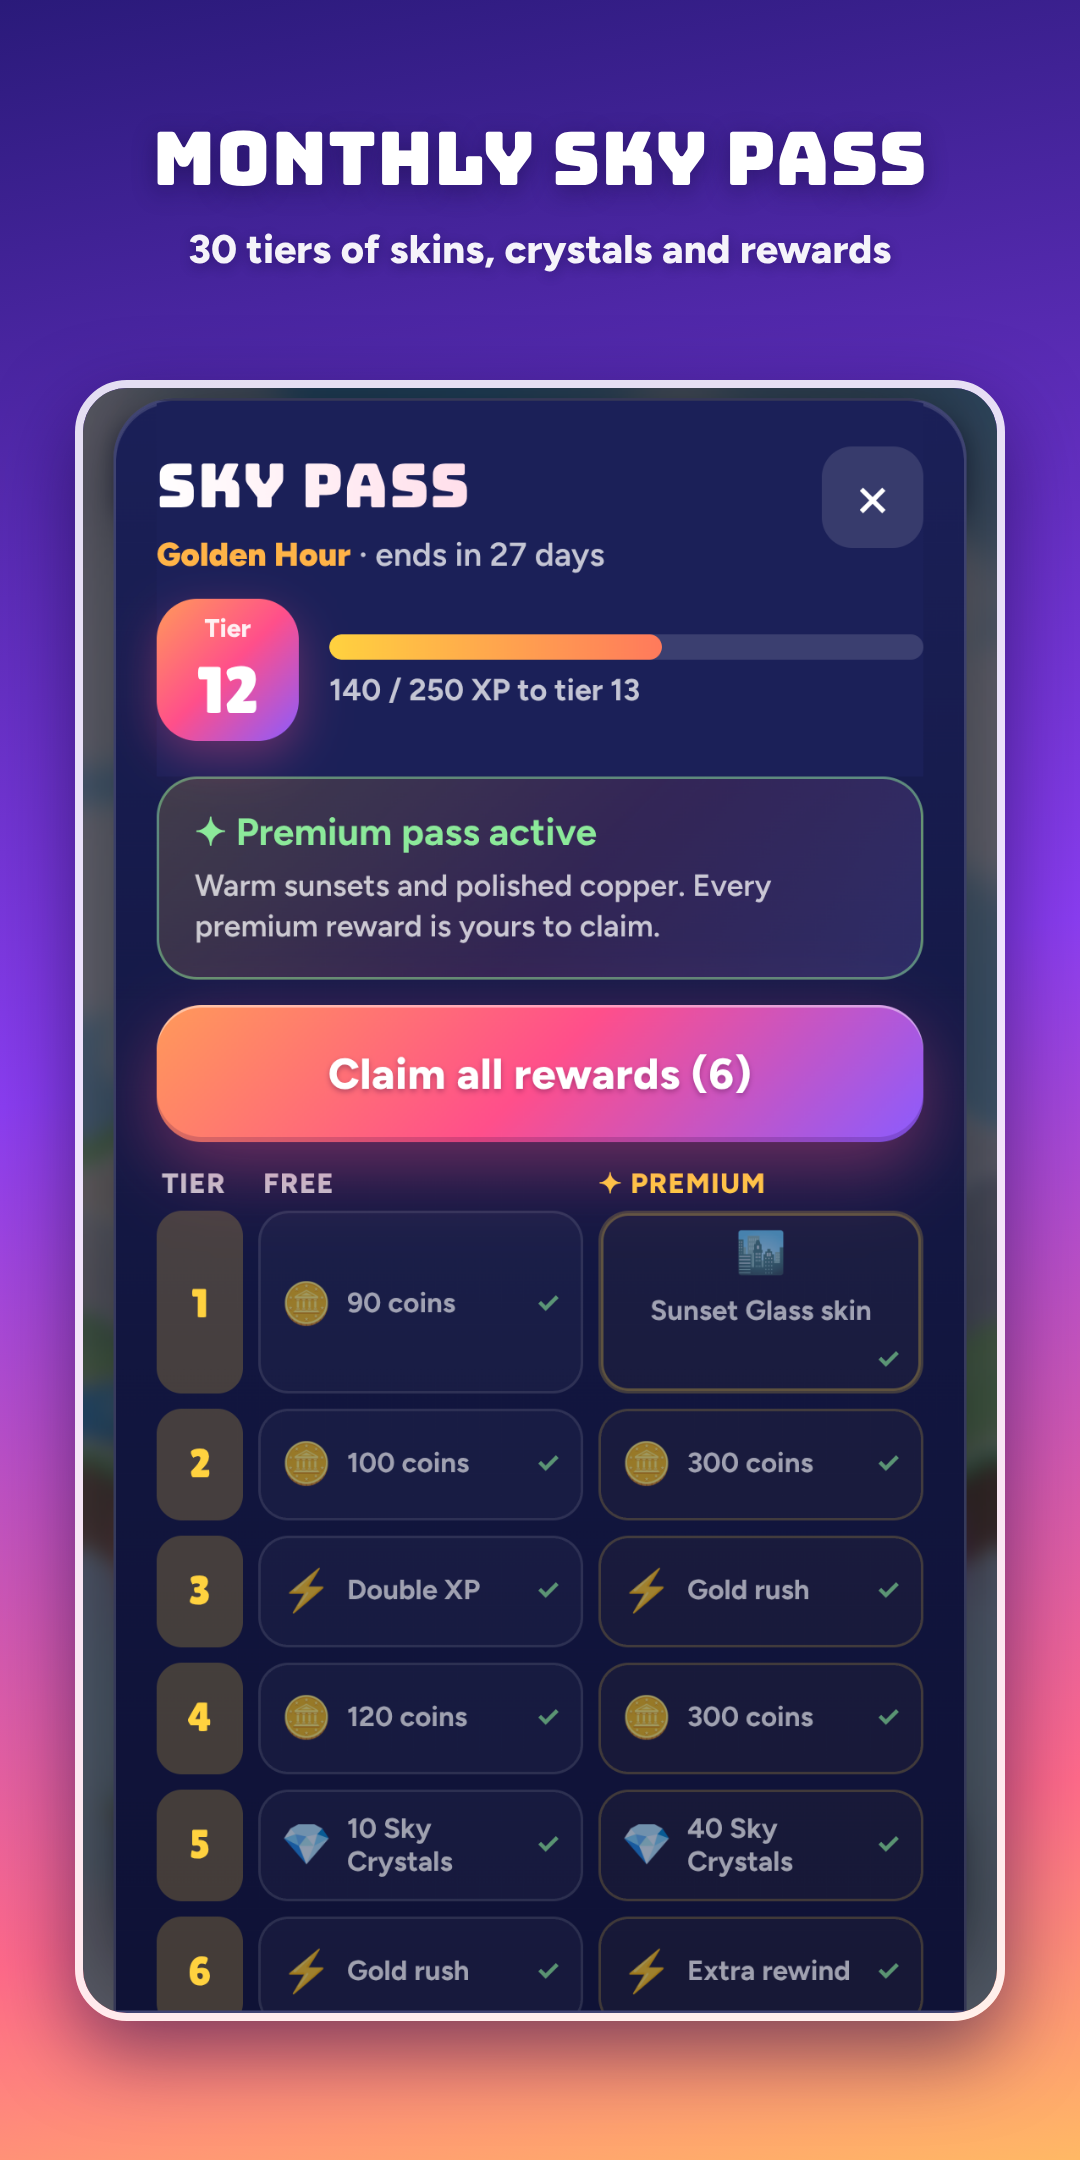
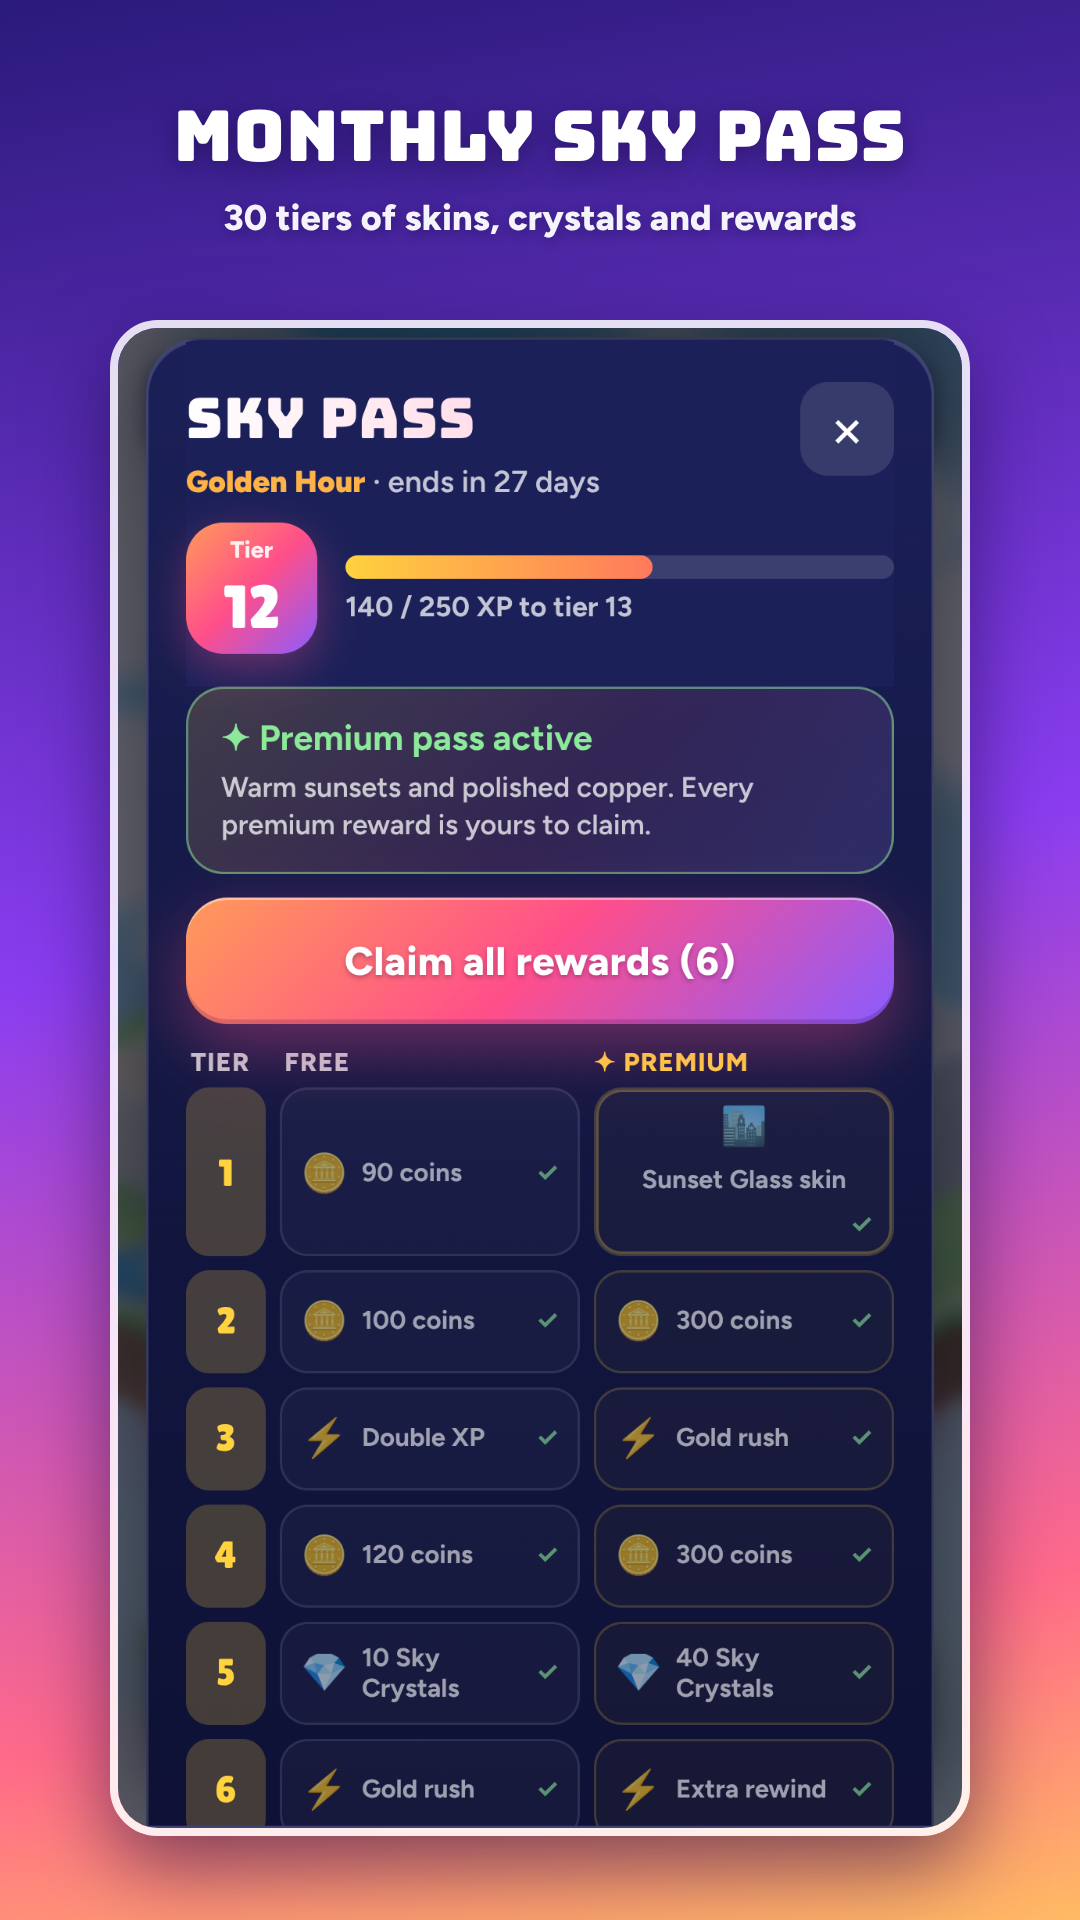
Google Play screenshots at 1080x1920 (9:16), as Play requires
Claude-Session: https://claude.ai/code/session_01JdA1eqtJ6Z5CbdZzjTcCvj

diff --git a/launch/stores/google-play.md b/launch/stores/google-play.md
@@ -26,7 +26,7 @@ changed after that.
 
 - App icon (512 × 512): `play-icon-512.png`
 - Feature graphic (1024 × 500): `feature-graphic.png`
-- Phone screenshots: the six files in `google-play-screenshots/` (1080 × 2160), in order 1 to 6.
+- Phone screenshots: the six files in `google-play-screenshots/` (1080 × 1920, 9:16), in order 1 to 6.
 
 **Category:** Game → **Casual**. Tags: Stacking, Building, Arcade, Offline.
 

diff --git a/STORES.md b/STORES.md
@@ -10,7 +10,7 @@ Store text, screenshots and product lists are ready in `launch/stores/`:
 - `app-store.md`: every App Store Connect field
 - `google-play.md`: every Play Console field
 - `app-store-screenshots/`: 1290 × 2796
-- `google-play-screenshots/`: 1080 × 2160
+- `google-play-screenshots/`: 1080 × 1920
 - `feature-graphic.png`: 1024 × 500
 
 ## Costs and timing
